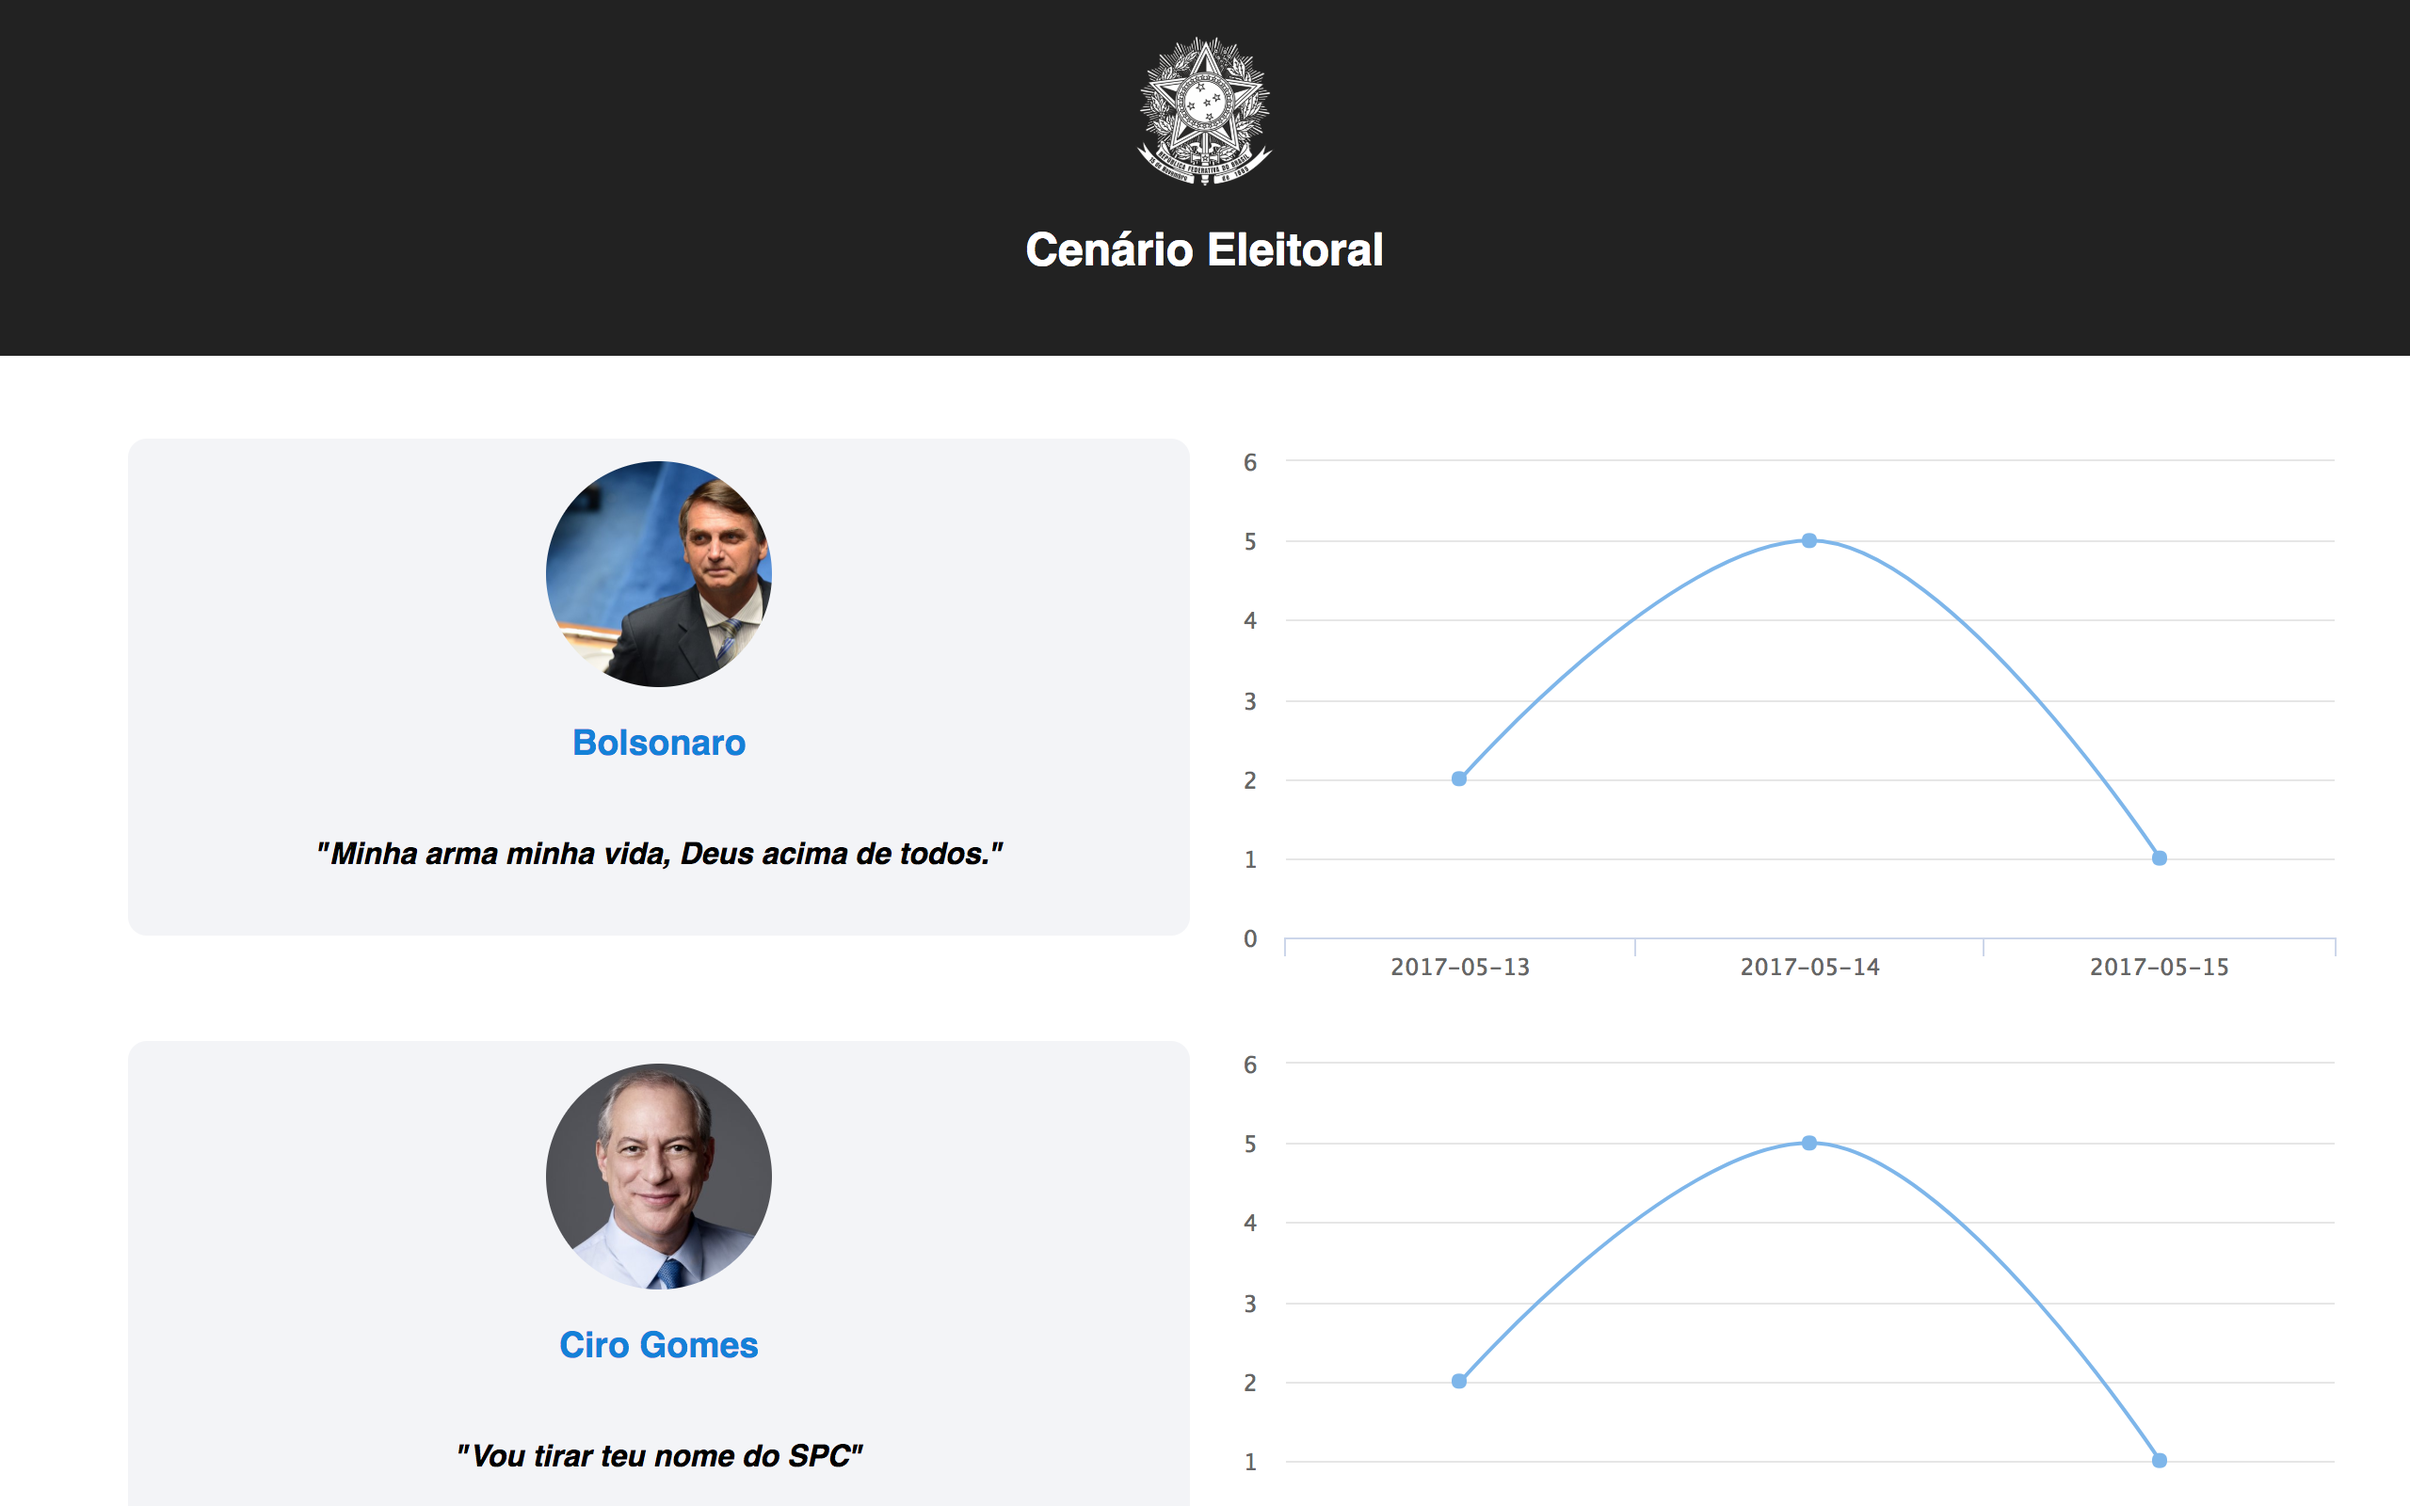
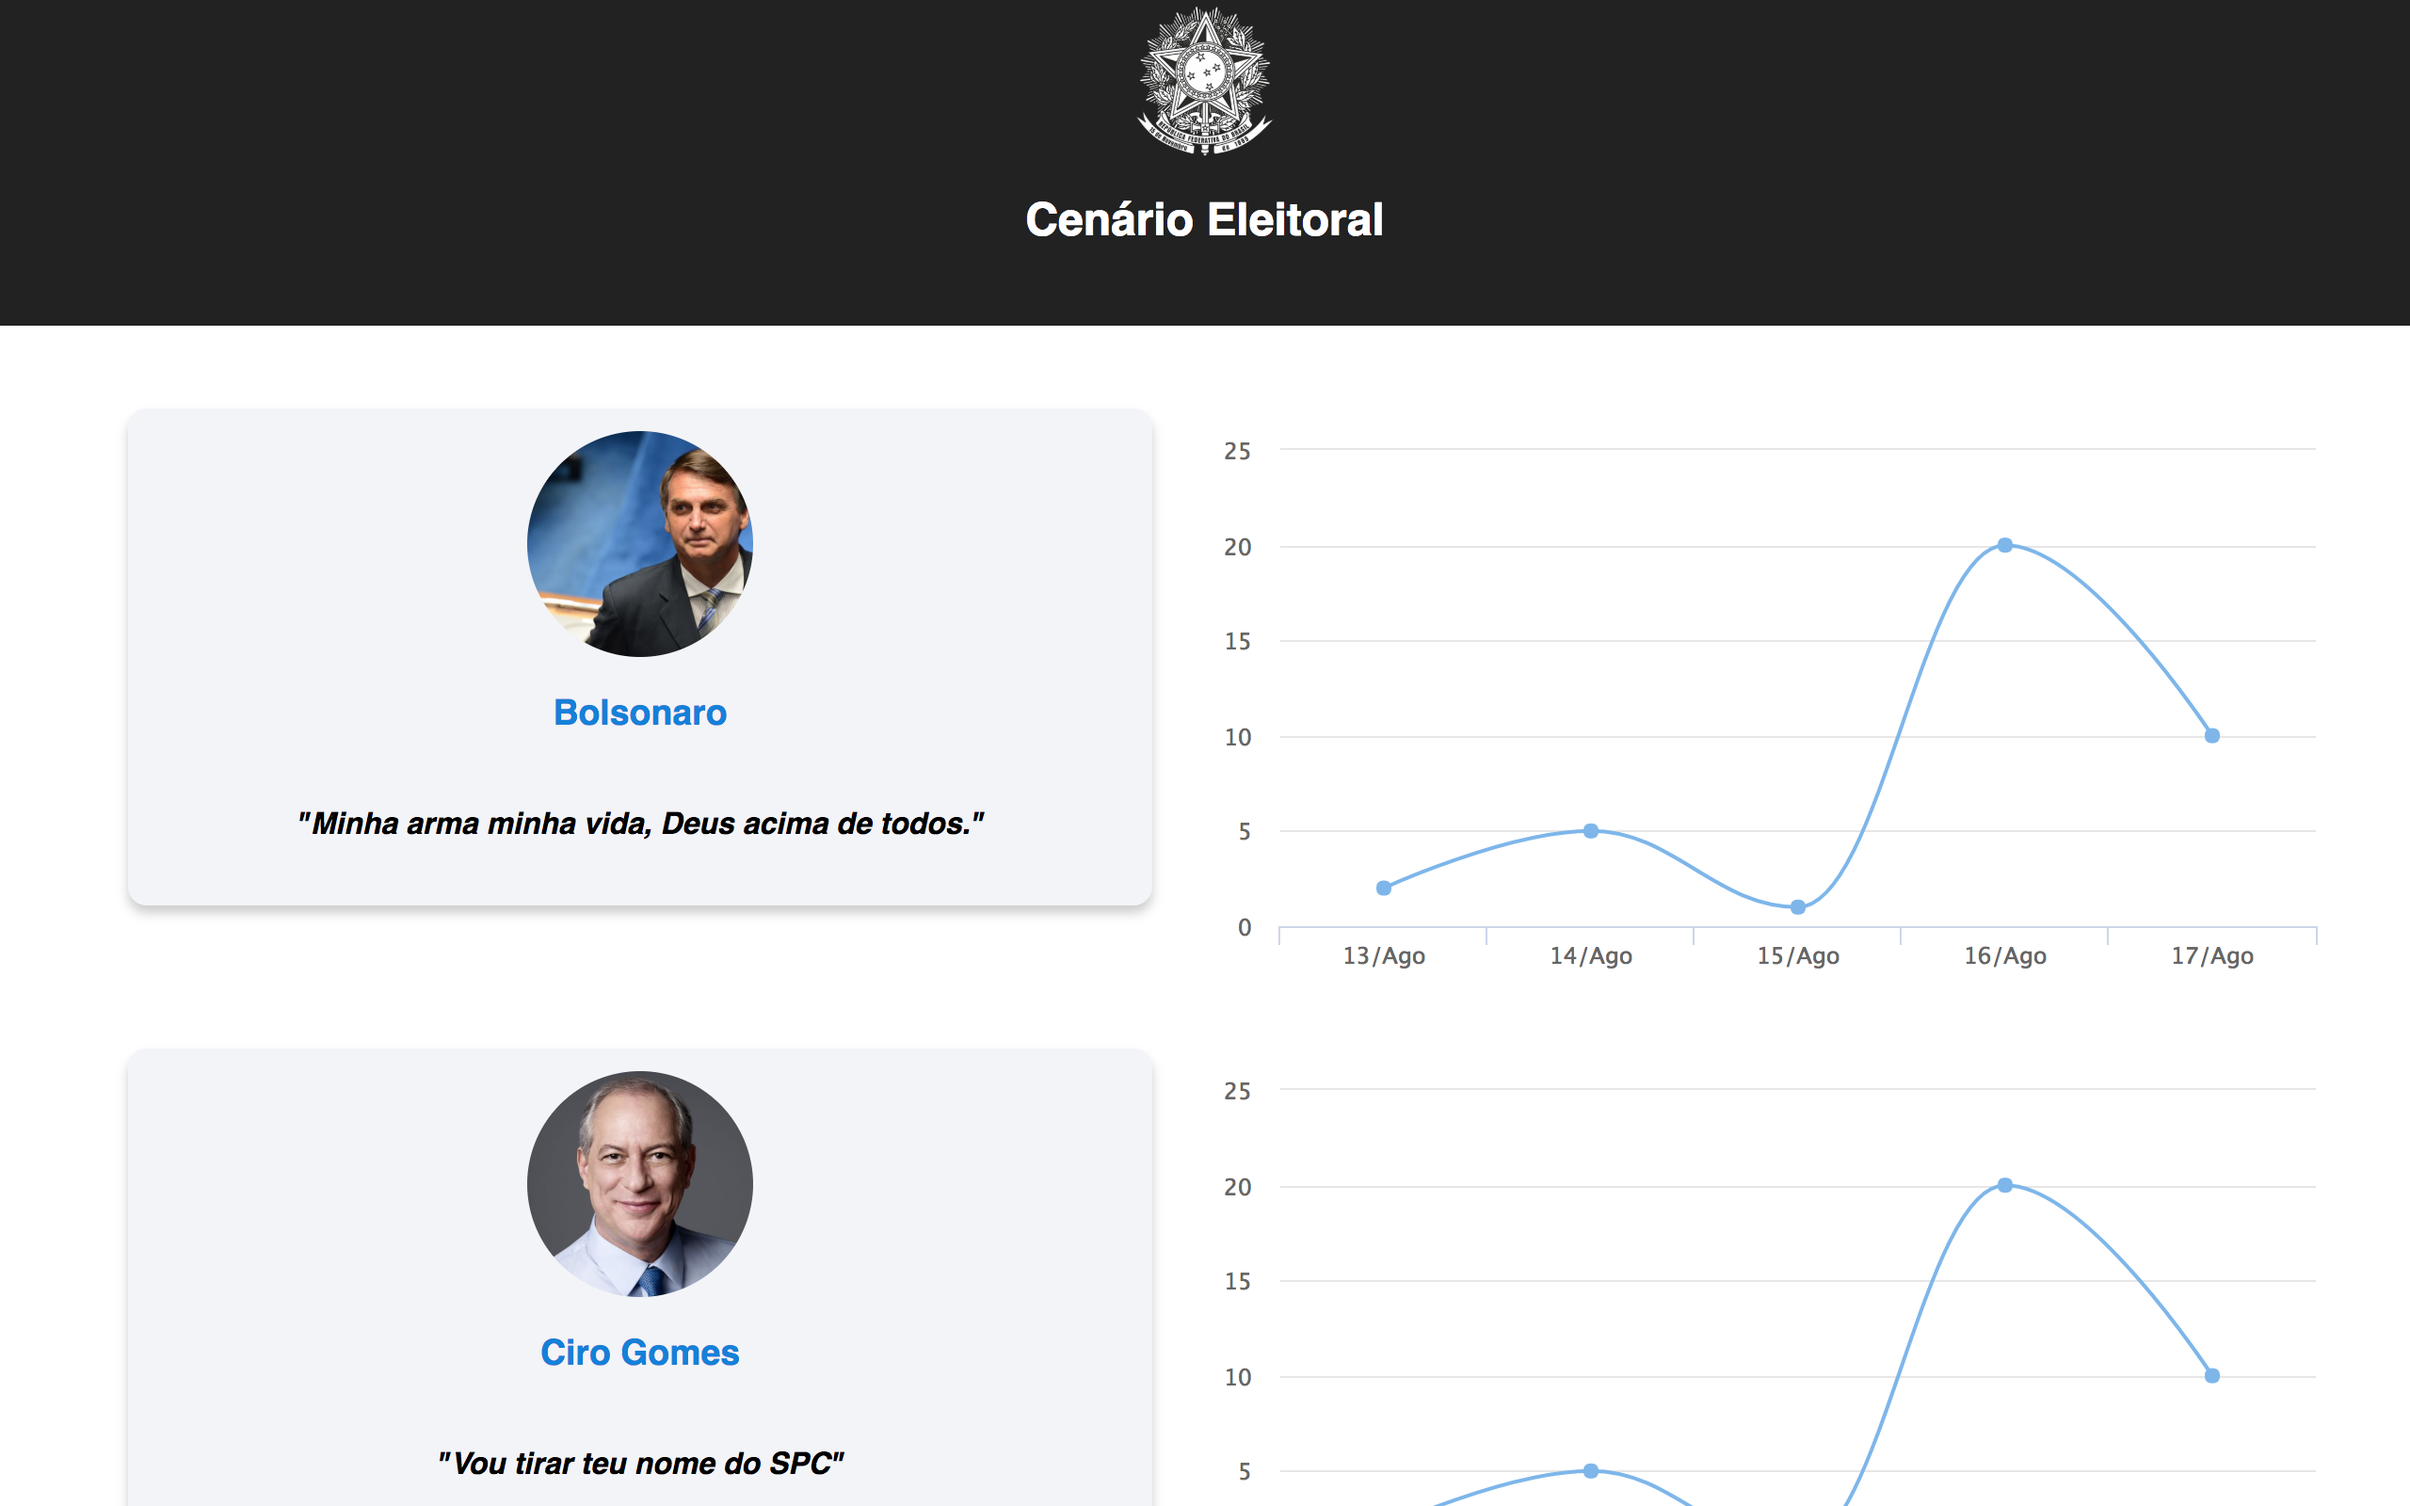
adds card effect with boxShadow

diff --git a/frontend/src/App.js b/frontend/src/App.js
@@ -21,7 +21,9 @@ const CandidateComponent = ({name, picture, description}) => {
             borderRadius: '10px',
             alignItems:'center',
             padding: 12,
-            margin: 8
+            margin: 8,
+            boxShadow: '0 4px 8px 0 rgba(0,0,0,0.2)',
+            transition: '0.3s'
         }}>
         <div style={{
             width:'120px',
@@ -34,8 +36,17 @@ const CandidateComponent = ({name, picture, description}) => {
             <h4 style={{fontStyle:'italic'}}>{description}</h4>
         </div>
 
-        <div style={{padding: 10}}>
-            <LineChart discrete={true} data={{"2017-05-13": 2, "2017-05-14": 5, "2017-05-15": 1}} />
+        <div style={{padding: 20}}>
+            <LineChart
+                discrete={true}
+                data={{
+                    "13/Ago": 2,
+                    "14/Ago": 5,
+                    "15/Ago": 1,
+                    "16/Ago": 20,
+                    "17/Ago": 10
+                }}
+            />
         </div>
     </div>
     )
